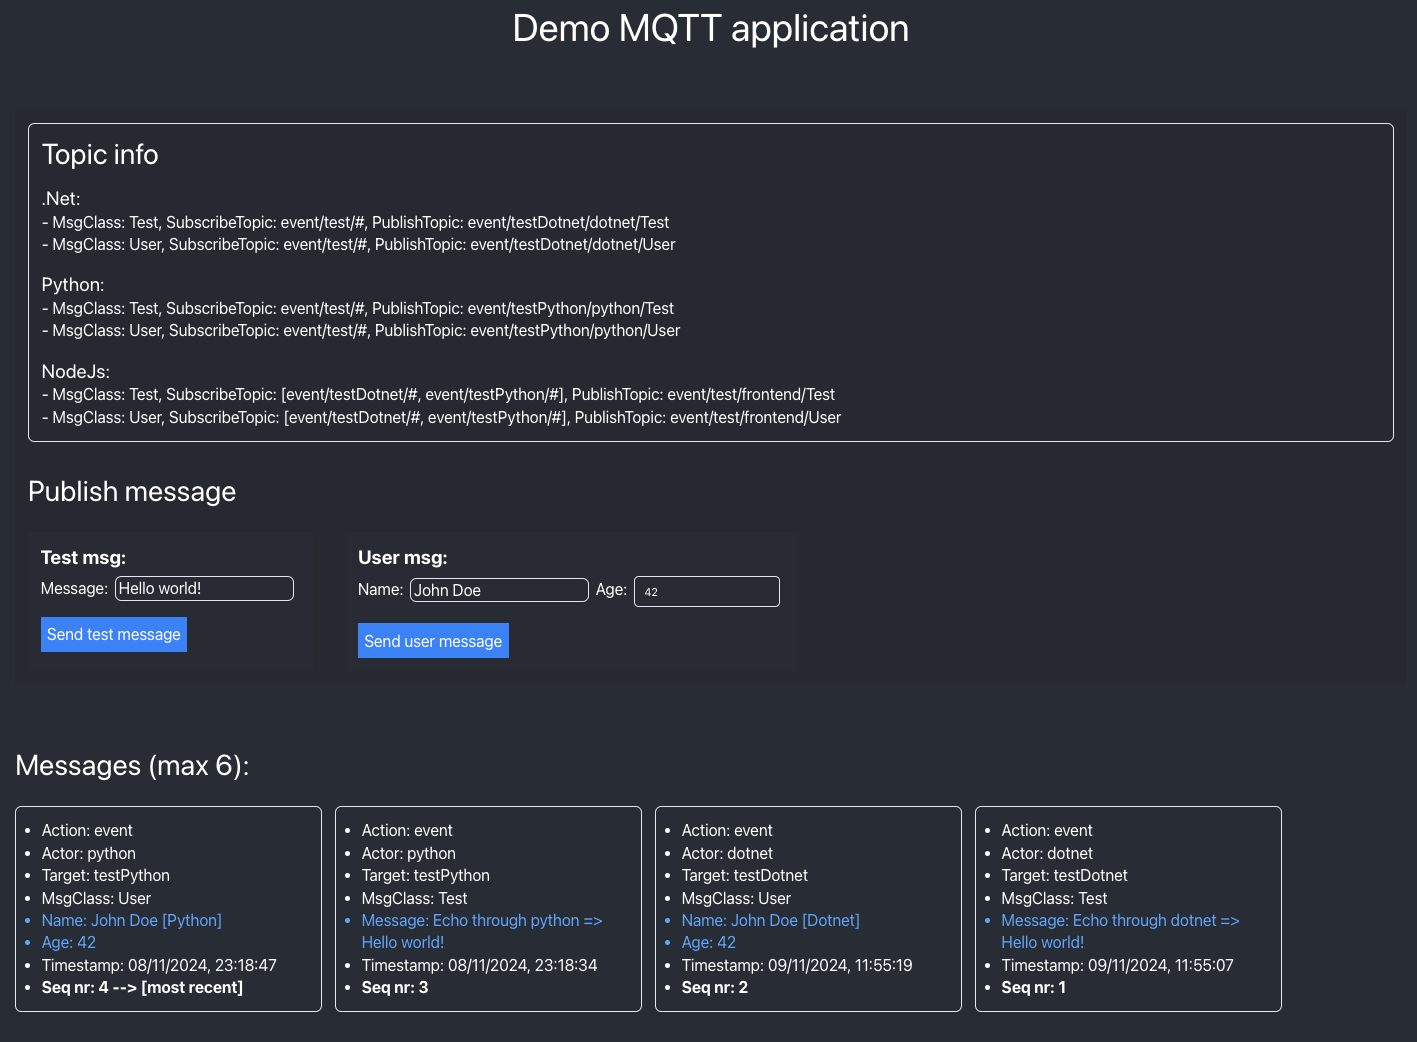
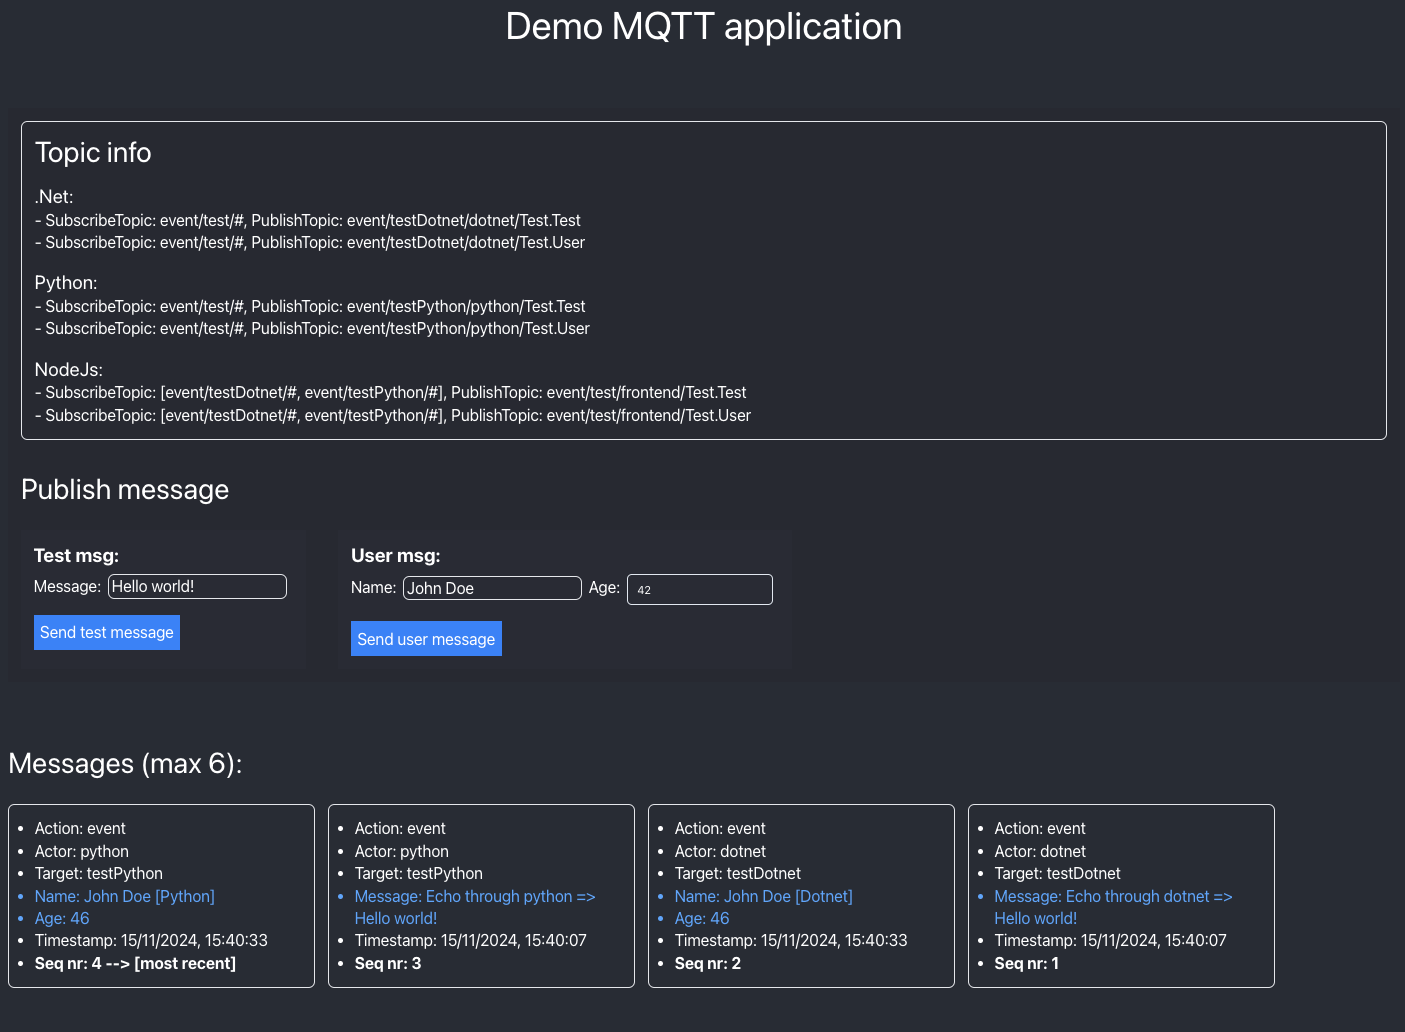
added namespace in message topics + updated readme

diff --git a/Nodejs/web-app/src/components/Settings.tsx b/Nodejs/web-app/src/components/Settings.tsx
@@ -8,22 +8,22 @@ const Settings = () => {
                 <div className='flex flex-col'>
                     <h3 className='mt-5 text-2xl'>.Net:</h3>
                     <ul>
-                        <li>- MsgClass: Test, SubscribeTopic: event/test/#, PublishTopic: event/testDotnet/dotnet/Test</li>
-                        <li>- MsgClass: User, SubscribeTopic: event/test/#, PublishTopic: event/testDotnet/dotnet/User</li>
+                        <li>- SubscribeTopic: event/test/#, PublishTopic: event/testDotnet/dotnet/Test.Test</li>
+                        <li>- SubscribeTopic: event/test/#, PublishTopic: event/testDotnet/dotnet/Test.User</li>
                     </ul>
                 </div>
                 <div className='flex flex-col'>
                     <h3 className='mt-5 text-2xl'>Python:</h3>
                     <ul>
-                        <li>- MsgClass: Test, SubscribeTopic: event/test/#, PublishTopic: event/testPython/python/Test</li>
-                        <li>- MsgClass: User, SubscribeTopic: event/test/#, PublishTopic: event/testPython/python/User</li>
+                        <li>- SubscribeTopic: event/test/#, PublishTopic: event/testPython/python/Test.Test</li>
+                        <li>- SubscribeTopic: event/test/#, PublishTopic: event/testPython/python/Test.User</li>
                     </ul>
                 </div>
                 <div className='flex flex-col'>
                     <h3 className='mt-5 text-2xl'>NodeJs:</h3>
                     <ul>
-                        <li>- MsgClass: Test, SubscribeTopic: [event/testDotnet/#, event/testPython/#], PublishTopic: event/test/frontend/Test</li>
-                        <li>- MsgClass: User, SubscribeTopic: [event/testDotnet/#, event/testPython/#], PublishTopic: event/test/frontend/User</li>
+                        <li>- SubscribeTopic: [event/testDotnet/#, event/testPython/#], PublishTopic: event/test/frontend/Test.Test</li>
+                        <li>- SubscribeTopic: [event/testDotnet/#, event/testPython/#], PublishTopic: event/test/frontend/Test.User</li>
                     </ul>
                 </div>
             </div>

diff --git a/Nodejs/web-app/src/components/PublishMsg.tsx b/Nodejs/web-app/src/components/PublishMsg.tsx
@@ -1,11 +1,11 @@
 import { useEffect, useState } from "react";
 import { Test, User } from "../protobuf/Test";
 import { useMqttClient } from "../mqtt/MqttContext";
-import { MqttActions } from "../mqtt/mqttProtocol";
+import { MqttActions, MqttMsgClass } from "../mqtt/mqttProtocol";
 import { Components } from "../protobuf";
 
-const PUBLISH_TOPIC_TEST_MSG = 'event/test/frontend/Test';
-const PUBLISH_TOPIC_USER_MSG = 'event/test/frontend/User';
+const PUBLISH_TOPIC_TEST_MSG = 'event/test/frontend/Test.Test';
+const PUBLISH_TOPIC_USER_MSG = 'event/test/frontend/Test.User';
 
 const PublishMsg = () => {
     const { publish } = useMqttClient();
@@ -21,7 +21,12 @@ const PublishMsg = () => {
         const action = topicSegments[0] as MqttActions;
         const target = topicSegments.slice(1, -2).join('/');
         const actorId = topicSegments[topicSegments.length - 2];
-        const msgClass = topicSegments[topicSegments.length - 1] as keyof typeof Components;
+
+        const tmp = topicSegments[topicSegments.length - 1].split('.');
+        const msgClass = {
+            namespace: tmp[0],
+            msgType: tmp[1]
+        } as MqttMsgClass;
 
         publish({topicPrefix: {action, target}, actorId, msgClass, payload: testMsg});
     };
@@ -34,7 +39,12 @@ const PublishMsg = () => {
         const action = topicSegments[0] as MqttActions;
         const target = topicSegments.slice(1, -2).join('/');
         const actorId = topicSegments[topicSegments.length - 2];
-        const msgClass = topicSegments[topicSegments.length - 1] as keyof typeof Components;
+
+        const tmp = topicSegments[topicSegments.length - 1].split('.');
+        const msgClass = {
+            namespace: tmp[0],
+            msgType: tmp[1]
+        } as MqttMsgClass;
 
         publish({topicPrefix: {action, target}, actorId, msgClass, payload: userMsg});
     }

diff --git a/Nodejs/web-app/src/mqtt/UseSubscription.tsx b/Nodejs/web-app/src/mqtt/UseSubscription.tsx
@@ -6,6 +6,7 @@ import { useMqttClient } from './MqttContext';
 import { matches } from './mqttTopicVerifier';
 import { Components } from '../protobuf';
 import { MqttActions, MqttMessage } from './mqttProtocol';
+import { Test } from '../protobuf/Test';
 
 interface IUseSubscription {
     topic: string | string[];
@@ -31,8 +32,11 @@ export default function useSubscription(
         if (segmentedTopic.length > 3) {
             try {
                 const actorId = segmentedTopic[segmentedTopic.length - 2];
-                const msgClass = segmentedTopic[segmentedTopic.length - 1] as keyof typeof Components;
                 const target = segmentedTopic.slice(1, -2);
+
+                const segmentedMsgClass = segmentedTopic[segmentedTopic.length - 1].split('.');
+                const msgNamespace = segmentedMsgClass[0] as keyof typeof Components;
+                const msgType = segmentedMsgClass[1] as Exclude<keyof typeof Components[keyof typeof Components], "protobufPackage">;
 
                 if ([topic].flat().some(rTopic => matches(rTopic, receivedTopic))) {
                     onReceive({
@@ -41,8 +45,8 @@ export default function useSubscription(
                             target: target.join('/'),
                         },
                         actorId: actorId,
-                        msgClass: msgClass,
-                        payload: Components[msgClass].decode(receivedMessage),
+                        msgClass: {namespace: msgNamespace, msgType: msgType},
+                        payload: Components[msgNamespace][msgType].decode(receivedMessage),
                     });
                 }
             } catch (error) {

diff --git a/Nodejs/web-app/src/components/SubscribeMsg.tsx b/Nodejs/web-app/src/components/SubscribeMsg.tsx
@@ -11,7 +11,7 @@ const SubscribeMsg = () => {
     const handleReceive = (message: MqttMessage<any>) => {
         let tmp: MqttMessage<Test|User>;
         
-        if (message.msgClass === 'Test') {
+        if (message.msgClass.msgType === 'Test') {
             tmp = message as MqttMessage<Test>;
         } else {
             tmp = message as MqttMessage<User>;
@@ -33,7 +33,7 @@ const SubscribeMsg = () => {
     )
 
     const PayloadInfo: React.FC<{msg: MqttMessage<Test|User>}> = ({msg}) => {
-        if (msg.msgClass === 'Test') {
+        if (msg.msgClass.msgType === 'Test') {
             const tmp = msg.payload as Test;
 
             return (
@@ -61,7 +61,8 @@ const SubscribeMsg = () => {
                             <li>Action: {msg.topicPrefix.action}</li>
                             <li>Actor: {msg.actorId}</li>
                             <li>Target: {msg.topicPrefix.target}</li>
-                            <li>MsgClass: {msg.msgClass}</li>
+                            {/* <li>MsgNamespace: {msg.msgClass.namespace}</li>
+                            <li>MsgType: {msg.msgClass.msgType}</li> */}
                             <PayloadInfo msg={msg}/>
                             <li>Timestamp: {msg.payload.timestamp?.toLocaleDateString()}, {msg.payload.timestamp?.toLocaleTimeString()}</li>
                             <li className="font-bold">Seq nr: {counter.current - idx} {idx === 0 ? ' --> [most recent]' : ''}</li>

diff --git a/Nodejs/web-app/src/mqtt/MqttContext.tsx b/Nodejs/web-app/src/mqtt/MqttContext.tsx
@@ -42,13 +42,13 @@ const MqttProvider: React.FC<{ brokerUrl: string, opts: IClientOptions, children
 
     function publish <T>(msg: MqttMessage<T>, opts?: IClientPublishOptions) {
 		if (client && isConnected) {
-            const encoding = Components[msg.msgClass].encode(msg.payload as any).finish();
+            const encoding = Components[msg.msgClass.namespace][msg.msgClass.msgType].encode(msg.payload as any).finish();
 			const buffer = Buffer.from(encoding);
 
 			let action = msg.topicPrefix.action;
 
 			client.publish(
-				`${action}/${msg.topicPrefix.target}/${msg.actorId}/${msg.msgClass.toString()}`, 
+				`${action}/${msg.topicPrefix.target}/${msg.actorId}/${msg.msgClass.namespace.toString()}.${msg.msgClass.msgType.toString()}`, 
 				buffer, opts ?? {qos: 0, retain: action === 'state'}
 			);
 		} else {

diff --git a/Nodejs/web-app/src/mqtt/MqttProtocol.ts b/Nodejs/web-app/src/mqtt/MqttProtocol.ts
@@ -7,12 +7,20 @@ export enum ConnectionState {
 	Reconnecting = 3
 }
 
+export type MqttNamespace = keyof typeof Components;
+
 export type MqttActions = 'state' | 'command' | 'event';
 export type MqttTopicPrefixType = { action: MqttActions, target: string };
+export type MqttMsgClass = {
+	[N in MqttNamespace]: {
+		namespace: N;
+		msgType: Exclude<keyof typeof Components[N], "protobufPackage">;
+	};
+}[MqttNamespace];
 
 export type MqttMessage<T> = {
 	topicPrefix: MqttTopicPrefixType,
 	actorId: string,
-	msgClass: keyof typeof Components,
+	msgClass: MqttMsgClass,
 	payload: T
 }

diff --git a/Dotnet/Dotnet.Protobuf/Test/Test.cs b/Dotnet/Dotnet.Protobuf/Test/Test.cs
@@ -9,7 +9,7 @@ using pb = global::Google.Protobuf;
 using pbc = global::Google.Protobuf.Collections;
 using pbr = global::Google.Protobuf.Reflection;
 using scg = global::System.Collections.Generic;
-namespace Dotnet.Protobuf {
+namespace Dotnet.Protobuf.Test {
 
   /// <summary>Holder for reflection information generated from Test.proto</summary>
   public static partial class TestReflection {
@@ -28,13 +28,13 @@ namespace Dotnet.Protobuf {
             "LnByb3RvIkIKBFRlc3QSLQoJdGltZXN0YW1wGAEgASgLMhouZ29vZ2xlLnBy",
             "b3RvYnVmLlRpbWVzdGFtcBILCgNtc2cYAiABKAkiUAoEVXNlchItCgl0aW1l",
             "c3RhbXAYASABKAsyGi5nb29nbGUucHJvdG9idWYuVGltZXN0YW1wEgwKBG5h",
-            "bWUYAiABKAkSCwoDYWdlGAMgASgFQhKqAg9Eb3RuZXQuUHJvdG9idWZiBnBy",
-            "b3RvMw=="));
+            "bWUYAiABKAkSCwoDYWdlGAMgASgFQheqAhREb3RuZXQuUHJvdG9idWYuVGVz",
+            "dGIGcHJvdG8z"));
       descriptor = pbr::FileDescriptor.FromGeneratedCode(descriptorData,
           new pbr::FileDescriptor[] { global::Google.Protobuf.WellKnownTypes.TimestampReflection.Descriptor, },
           new pbr::GeneratedClrTypeInfo(null, null, new pbr::GeneratedClrTypeInfo[] {
-            new pbr::GeneratedClrTypeInfo(typeof(global::Dotnet.Protobuf.Test), global::Dotnet.Protobuf.Test.Parser, new[]{ "Timestamp", "Msg" }, null, null, null, null),
-            new pbr::GeneratedClrTypeInfo(typeof(global::Dotnet.Protobuf.User), global::Dotnet.Protobuf.User.Parser, new[]{ "Timestamp", "Name", "Age" }, null, null, null, null)
+            new pbr::GeneratedClrTypeInfo(typeof(global::Dotnet.Protobuf.Test.Test), global::Dotnet.Protobuf.Test.Test.Parser, new[]{ "Timestamp", "Msg" }, null, null, null, null),
+            new pbr::GeneratedClrTypeInfo(typeof(global::Dotnet.Protobuf.Test.User), global::Dotnet.Protobuf.Test.User.Parser, new[]{ "Timestamp", "Name", "Age" }, null, null, null, null)
           }));
     }
     #endregion
@@ -56,7 +56,7 @@ namespace Dotnet.Protobuf {
     [global::System.Diagnostics.DebuggerNonUserCodeAttribute]
     [global::System.CodeDom.Compiler.GeneratedCode("protoc", null)]
     public static pbr::MessageDescriptor Descriptor {
-      get { return global::Dotnet.Protobuf.TestReflection.Descriptor.MessageTypes[0]; }
+      get { return global::Dotnet.Protobuf.Test.TestReflection.Descriptor.MessageTypes[0]; }
     }
 
     [global::System.Diagnostics.DebuggerNonUserCodeAttribute]
@@ -292,7 +292,7 @@ namespace Dotnet.Protobuf {
     [global::System.Diagnostics.DebuggerNonUserCodeAttribute]
     [global::System.CodeDom.Compiler.GeneratedCode("protoc", null)]
     public static pbr::MessageDescriptor Descriptor {
-      get { return global::Dotnet.Protobuf.TestReflection.Descriptor.MessageTypes[1]; }
+      get { return global::Dotnet.Protobuf.Test.TestReflection.Descriptor.MessageTypes[1]; }
     }
 
     [global::System.Diagnostics.DebuggerNonUserCodeAttribute]

diff --git a/Dotnet/Dotnet.Mqtt/MqttService.cs b/Dotnet/Dotnet.Mqtt/MqttService.cs
@@ -21,7 +21,7 @@ public interface IMqttService
     Task StartAsync(CancellationToken stoppingToken);
     Task StopAsync();
 
-    Task Publish(MqttAction action, string target, string actorId, string messageType, byte[] bytes);
+    Task Publish(MqttAction action, string target, string actorId, string messageNamespace, string messageType, byte[] bytes);
 
     void Subscribe(List<string> topics);
 }
@@ -123,26 +123,26 @@ public class MqttService : IMqttService
         await mqttClient.DisconnectAsync();
     }
 
-    public async Task Publish(MqttAction action, string target, string actorId, string messageType, byte[] bytes)
+    public async Task Publish(MqttAction action, string target, string actorId, string messageNamespace, string messageType, byte[] bytes)
     {
         if (mqttClient != null && mqttClient.IsConnected)
         {
             try
             {
                 var msg = new MqttApplicationMessageBuilder()
-                    .WithTopic($"{action.ToString().ToLower()}/{target}/{actorId}/{messageType}")
+                    .WithTopic($"{action.ToString().ToLower()}/{target}/{actorId}/{messageNamespace}.{messageType}")
                     .WithPayload(bytes)
                     .WithQualityOfServiceLevel(MQTTnet.Protocol.MqttQualityOfServiceLevel.AtLeastOnce)
                     .WithRetainFlag()
                     .Build();
 
-                Console.WriteLine($"Sending:... {action}/{target}/{actorId}/{messageType}");
+                Console.WriteLine($"Sending:... {action}/{target}/{actorId}/{messageNamespace}.{messageType}");
 
                 await mqttClient.PublishAsync(msg);
             }
             catch (Exception e)
             {
-                this.logger.LogError($"Mqtt Send {action.ToString().ToLower()}/{target}/{actorId}/{messageType} failed: {e.Message}");
+                this.logger.LogError($"Mqtt Send {action.ToString().ToLower()}/{target}/{actorId}/{messageNamespace}.{messageType} failed: {e.Message}");
             }
         }
     }

diff --git a/Python/src/mqtt/mqtt_registry.py b/Python/src/mqtt/mqtt_registry.py
@@ -17,17 +17,6 @@ from mqtt.mqtt_tree_structure import MqttTreeStructure
 # Import protobuf and mqtt_handlers package
 import protobuf
 import mqtt.mqtt_handlers
-
-# class MqttRegistry():
-#     def __init__(self):
-#         self.handlers = {}
-#         self.parsers = {}
-
-#     def get_handler(self, mqtt_service: MqttService) -> MqttHandler:
-#         return TestHandler(mqtt_service)
-    
-#     def get_all_subscriptions(self):
-#         return self.handlers.get_all_subscriptions(None)
     
 
 class MqttRegistry():
@@ -54,8 +43,10 @@ class MqttRegistry():
                 
                 # Check if the attribute is a protobuf message class
                 if isinstance(attr, type) and issubclass(attr, Message):
+                    msg_namespace = attr.DESCRIPTOR.full_name.split('.')[0].capitalize() #get namespace
+
                     # Store the message class in a dictionary for instantiation later
-                    self.parsers[attr_name] = attr
+                    self.parsers[msg_namespace + "." + attr_name] = attr
 
     def cache_handlers(self):
         # Loop through all modules in mqtt_handlers directory

diff --git a/Dotnet/Dotnet.Mqtt/mqttHandlers/TestHandler.cs b/Dotnet/Dotnet.Mqtt/mqttHandlers/TestHandler.cs
@@ -1,5 +1,5 @@
 using Google.Protobuf;
-using Proto = Dotnet.Protobuf;
+using Proto = Dotnet.Protobuf.Test;
 
 namespace Dotnet.Mqtt.MqttHandlers;
 
@@ -29,7 +29,7 @@ public class TestHandler(IMqttService mqttService) : IMqttHandler
                     Msg = $"Echo through dotnet => {test.Msg}",
                 };
                 
-                mqttService.Publish(MqttAction.EVENT, "testDotnet", "dotnet", "Test", testMsg.ToByteArray());
+                mqttService.Publish(MqttAction.EVENT, "testDotnet", "dotnet", "Test", "Test", testMsg.ToByteArray());
 
                 break;
             case Proto.User user:
@@ -40,7 +40,7 @@ public class TestHandler(IMqttService mqttService) : IMqttHandler
                     Age = user.Age,
                 };
                 
-                mqttService.Publish(MqttAction.EVENT, "testDotnet", "dotnet", "User", userMsg.ToByteArray());
+                mqttService.Publish(MqttAction.EVENT, "testDotnet", "dotnet", "Test", "User", userMsg.ToByteArray());
 
                 break;
             default:

diff --git a/Python/src/mqtt/mqtt_service.py b/Python/src/mqtt/mqtt_service.py
@@ -55,11 +55,11 @@ class MqttService:
         if self.on_disconnect_callback is not None:
             self.on_disconnect_callback()
 
-    def publish(self, action: MqttAction, target: str, actor_id: str, message_type: str, payload: bytes):
+    def publish(self, action: MqttAction, target: str, actor_id: str, message_namespace: str, message_type: str, payload: bytes):
         """Publishes a message to a specific MQTT topic."""
         if self.client.is_connected():
             try:
-                topic = f"{action.value.lower()}/{target}/{actor_id}/{message_type}"
+                topic = f"{action.value.lower()}/{target}/{actor_id}/{message_namespace}.{message_type}"
 
                 # Publish the message
                 result = self.client.publish(

diff --git a/Python/src/mqtt/mqtt_manager.py b/Python/src/mqtt/mqtt_manager.py
@@ -51,11 +51,15 @@ class MqttManager():
         arr_topic = message.topic.split('/')
         print(f"Received: {message.topic}")
 
-        message_type_name = arr_topic[-1]
+        message_class = arr_topic[-1]
         actor_id = arr_topic[-2]
 
+        segmented_msg_class = message_class.split('.')
+        msg_namespace = segmented_msg_class[0]
+        message_type = segmented_msg_class[1]
+
         # Try to get the parser based on the message type name
-        parser = self.mqtt_registry.try_get_parser(message_type_name)
+        parser = self.mqtt_registry.try_get_parser(message_class)
         if parser is not None:
             # Instantiate the parser dynamically
             parsed_message = parser()
